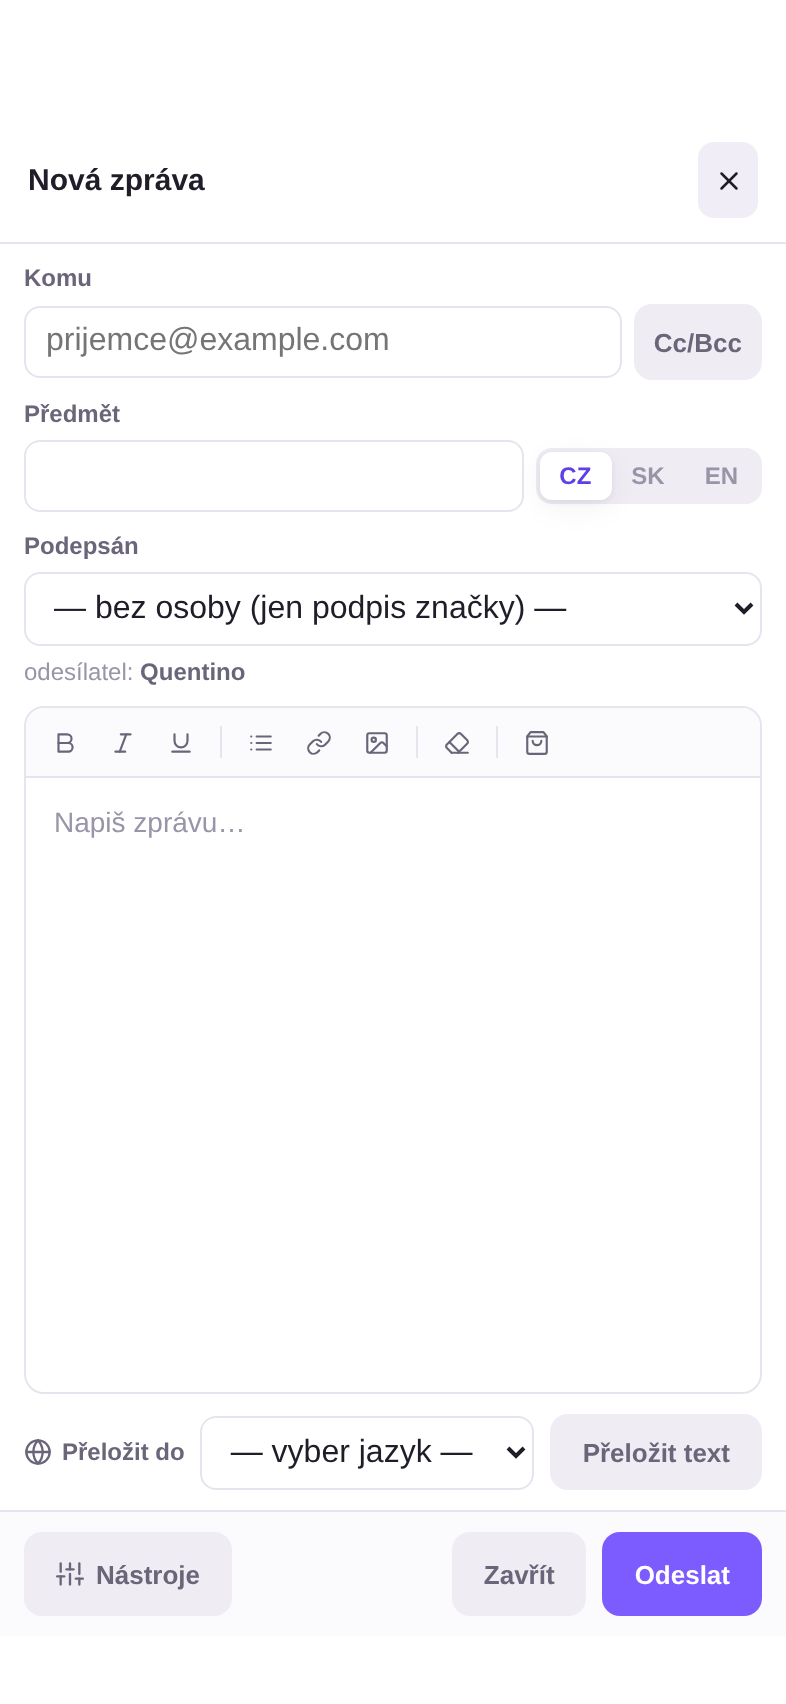
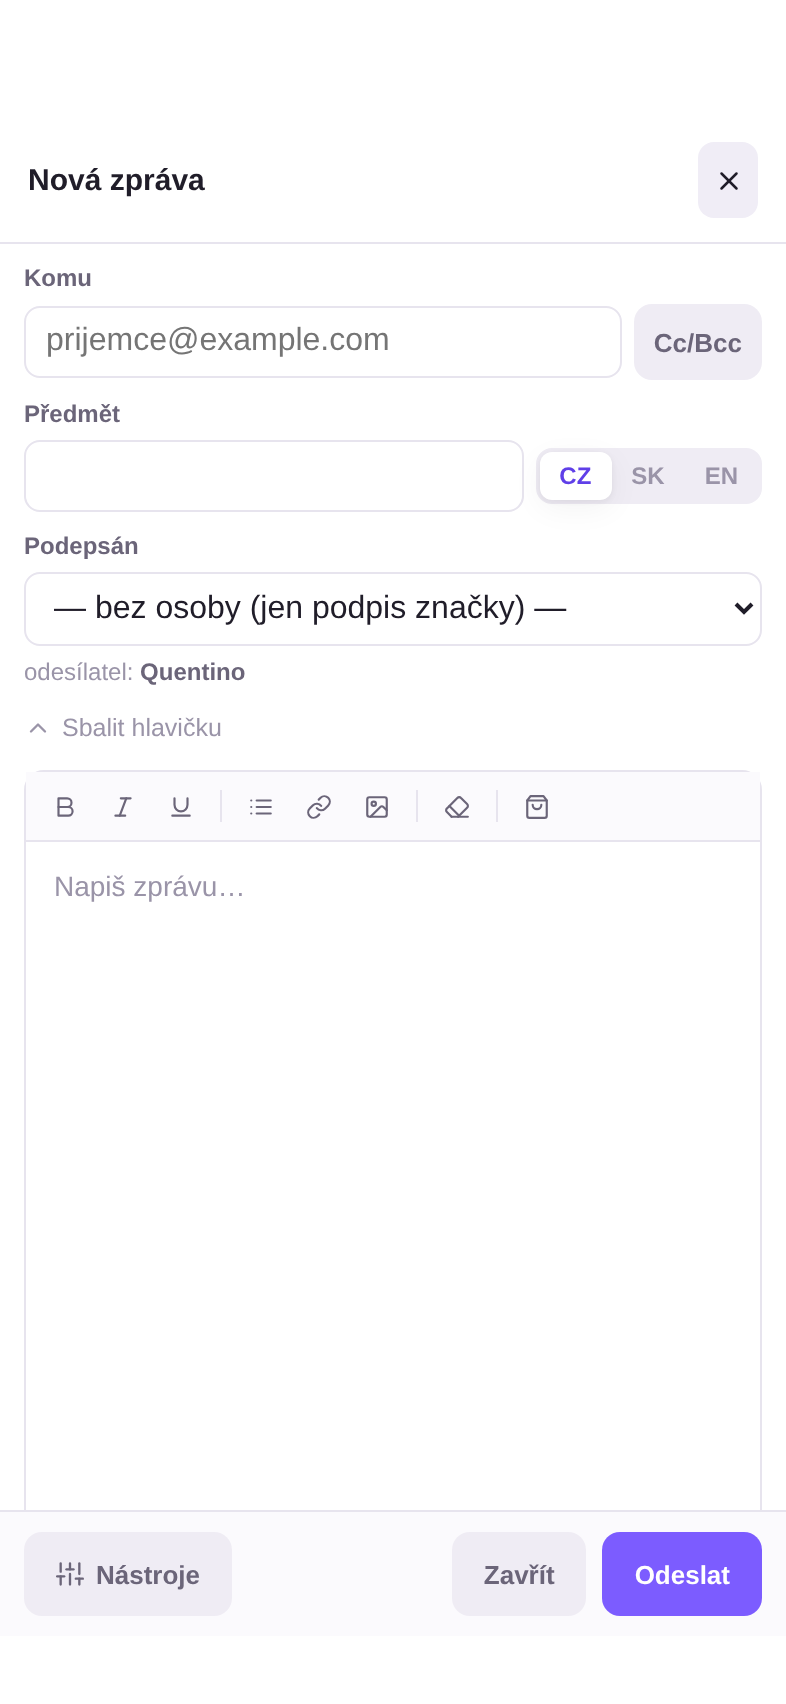
Psaní zprávy na telefonu: jedna rolující plocha
Editor mailu se na telefonu choval jako tři poschovávané obrazovky v jedné.

Rolovalo se ve dvou vrstvách naráz — stránka a v ní editor — a k tomu měl
vlastní posuvník ještě podpis, který navíc končil uprostřed. Prst nikdy
nevěděl, co zrovna posouvá. Teď roluje jen tělo okna a editor i podpis
rostou do výšky; lišta s formátováním zůstává přilepená nahoře, takže je
po ruce i uprostřed dlouhého textu.

Hlavička (komu, předmět, podepsán) zabírala třetinu obrazovky, i když
u odpovědi není co měnit — a jakmile se odrolovala, nebylo poznat, komu se
vlastně píše. U odpovědi je teď sbalená do jednoho řádku s příjemcem,
předmětem a jazykem; klepnutím se rozbalí. U nové zprávy zůstává otevřená,
tam není co jiného dělat.

Řádek „Přeložit do / Přeložit text" si držel místo pod textem pořád, i když
se skoro nikdy nepřekládá. Přesunul se mezi Nástroje, kde má vlastní panel
s výběrem jazyka.

Políčko pro zadání AI odpovědi mělo tlačítko vedle sebe a to přetékalo za
okraj — půlka nápisu „Vygenerovat odpověď" byla za obrazovkou. Teď je pod
polem přes celou šířku.

Náhledy na telefonu nově procházejí i odpověď s podpisem (bez ní by se nic
z toho nepoznalo) a kontrola „pod výřezem" přestala hlásit obsah, který jen
odroloval nad okraj rolující plochy — ověřeno, že skutečnou chybu pořád
najde.

Claude-Session: https://claude.ai/code/session_0118FUGUCarsrFjwUyJm4zFd

diff --git a/src/renderer/src/components/Composer.tsx b/src/renderer/src/components/Composer.tsx
@@ -204,6 +204,18 @@ export default function Composer(p: Props) {
   const phone = useIsPhone();
   // Šest nástrojů se do lišty na telefonu nevejde — schovají se za jedno tlačítko
   const [toolsOpen, setToolsOpen] = useState(false);
+  /** Panel s překladem — na telefonu je řádek s výběrem jazyka trvale v cestě */
+  const [translateOpen, setTranslateOpen] = useState(false);
+  /**
+   * Hlavička (komu, předmět, podepsán) rozbalená?
+   *
+   * U nové zprávy je potřeba hned — není co jiného vyplňovat. U odpovědi je
+   * všechno předvyplněné, takže na telefonu stačí jeden řádek se souhrnem
+   * a zbytek obrazovky patří textu. Klepnutím se rozbalí.
+   */
+  const [headOpen, setHeadOpen] = useState(p.init.mode === 'new');
+  /** Podpis na telefonu: ukazuje se na vyžádání, ne pořád (a hlavně celý) */
+  const [sigOpen, setSigOpen] = useState(false);
   const [sendAt, setSendAt] = useState('');
   const [translateOut, setTranslateOut] = useState(false);
   const [targetLang, setTargetLang] = useState('');
@@ -573,6 +585,20 @@ export default function Composer(p: Props) {
         </div>
 
         <div className="composer-body">
+          {/* Na telefonu zabírala hlavička třetinu obrazovky, i když u odpovědi
+              není co měnit. Sbalená drží to podstatné na očích — komu to jde
+              a v jakém jazyce — a text má konečně místo. */}
+          {phone && !headOpen && (
+            <button className="compose-summary" onClick={() => setHeadOpen(true)}>
+              <span className="compose-summary-lines">
+                <span><b>Komu</b> {to || 'nikomu zatím'}</span>
+                <span className="compose-summary-subject">{subject || 'bez předmětu'}</span>
+              </span>
+              <span className="compose-summary-lang">{mailLang.toUpperCase()}</span>
+              <Icon name="chevDown" size={15} />
+            </button>
+          )}
+          {(!phone || headOpen) && (<>
           {p.accounts.length > 1 && (
             <div className="compose-row">
               <label>Od</label>
@@ -622,6 +648,13 @@ export default function Composer(p: Props) {
             </div>
           )}
 
+          {phone && (
+            <button className="compose-collapse" onClick={() => setHeadOpen(false)}>
+              <Icon name="chevDown" size={14} /> Sbalit hlavičku
+            </button>
+          )}
+          </>)}
+
           {p.init.mode === 'reply' && (
             <div className="ai-note-box">
               <div className="hint"><Icon name="sparkles" size={13} /> Napiš jen stručně, co chceš sdělit — AI z toho vytvoří slušnou odpověď v duchu Quentina.</div>
@@ -647,13 +680,28 @@ export default function Composer(p: Props) {
             onInsertProduct={() => setBrowserOpen(true)}
           />
 
-          {sigPreview && !sigEdit && (
+          {/* Na telefonu se podpis dřív ukazoval pořád a ještě uříznutý v půlce
+              — vlastní rolování uvnitř rolující stránky. Teď je z něj jeden
+              řádek, a když se rozbalí, je vidět celý. */}
+          {sigPreview && !sigEdit && phone && (
+            <div className="sig-row">
+              <Icon name="pen" size={13} />
+              <span>Podpis se přidá při odeslání</span>
+              <button className="linkish" onClick={() => setSigOpen(v => !v)}>
+                {sigOpen ? 'Skrýt' : 'Zobrazit'}
+              </button>
+              <button className="linkish" onClick={() => setSigEdit(true)}>Upravit</button>
+            </div>
+          )}
+          {sigPreview && !sigEdit && (!phone || sigOpen) && (
             <div className="signature-preview" style={{ position: 'relative' }}>
               <div dangerouslySetInnerHTML={{ __html: sigPreview }} />
-              <button className="btn ghost" style={{ position: 'absolute', top: 4, right: 4, padding: '3px 9px', fontSize: 12 }}
-                onClick={() => setSigEdit(true)}>
-                <Icon name="pen" size={12} /> Upravit podpis
-              </button>
+              {!phone && (
+                <button className="btn ghost" style={{ position: 'absolute', top: 4, right: 4, padding: '3px 9px', fontSize: 12 }}
+                  onClick={() => setSigEdit(true)}>
+                  <Icon name="pen" size={12} /> Upravit podpis
+                </button>
+              )}
             </div>
           )}
           {sigEdit && (
@@ -693,6 +741,7 @@ export default function Composer(p: Props) {
             </div>
           )}
 
+          {!phone && (
           <div className="compose-row compose-translate" style={{ gap: 8 }}>
             <label style={{ width: 'auto', display: 'flex', alignItems: 'center', gap: 5 }}>
               <Icon name="globe" size={14} /> Přeložit do
@@ -706,6 +755,7 @@ export default function Composer(p: Props) {
               {busy === 'translate' ? <span className="spinner-inline" /> : 'Přeložit text'}
             </button>
           </div>
+          )}
 
           {foreignLang && (
             <label className="check-row">
@@ -773,10 +823,32 @@ export default function Composer(p: Props) {
                   onClick: () => setVoucherOpen(true) },
                 { icon: 'paperclip', label: 'Přidat přílohu',
                   onClick: () => { api.files.pickAttachments().then(ps => setAttachments(prev => [...prev, ...ps])); } },
+                { icon: 'globe', label: 'Přeložit text', hint: 'Přepíše rozepsanou zprávu do jiného jazyka',
+                  onClick: () => setTranslateOpen(true) },
                 { icon: 'clock', label: scheduleOpen ? 'Zrušit plán odeslání' : 'Naplánovat odeslání',
                   active: scheduleOpen, onClick: () => setScheduleOpen(v => !v) }
               ]}
             />
+          </Sheet>
+        )}
+
+        {/* Překlad měl na telefonu vlastní řádek pod textem a držel si místo
+            i ve chvílích, kdy se nepřekládá — což je skoro pořád */}
+        {translateOpen && (
+          <Sheet title="Přeložit text" onClose={() => setTranslateOpen(false)}>
+            <div className="field">
+              <label>Do jazyka</label>
+              <select value={targetLang} onChange={e => setTargetLang(e.target.value)}>
+                <option value="">— vyber jazyk —</option>
+                {LANGS.map(l => <option key={l.code} value={l.code}>{l.label}</option>)}
+              </select>
+              <span className="desc">Přepíše se rozepsaný text, podpis zůstane.</span>
+            </div>
+            <button className="btn primary" style={{ width: '100%' }}
+              disabled={!targetLang || busy === 'translate'}
+              onClick={async () => { await translateBody(); setTranslateOpen(false); }}>
+              {busy === 'translate' ? <span className="spinner-inline" /> : 'Přeložit'}
+            </button>
           </Sheet>
         )}
 

diff --git a/src/renderer/src/styles.css b/src/renderer/src/styles.css
@@ -4019,6 +4019,93 @@ html[data-form-factor="phone"] .compose-translate select { flex: 1; min-width: 1
 /* Výběr podepsané osoby a poznámka o odesílateli pod sebou */
 html[data-form-factor="phone"] .compose-row > select { width: 100%; }
 
+/* --------------------------------------------------------------------------
+   Psaní zprávy na telefonu: jedna rolující plocha
+
+   Dřív se rolovalo ve dvou vrstvách naráz — stránka a v ní editor, a k tomu
+   ještě podpis s vlastním posuvníkem. Prst nikdy nevěděl, co zrovna posouvá,
+   a hlavička s příjemcem zatím ujela z dohledu. Teď roluje jen `.composer-body`
+   a všechno ostatní roste do výšky.
+   -------------------------------------------------------------------------- */
+
+/* Editor roste s textem, neroluje sám v sobě */
+html[data-form-factor="phone"] .rt-wrap {
+  flex: 0 0 auto;
+  min-height: 0;
+  overflow: visible;
+}
+html[data-form-factor="phone"] .rt-editor {
+  overflow: visible;
+  /* Ať je do prázdné zprávy kam klepnout, i když ještě nic nemá */
+  min-height: 44vh;
+}
+/* Formátování zůstává po ruce i uprostřed dlouhého textu */
+html[data-form-factor="phone"] .rt-toolbar {
+  position: sticky;
+  top: 0;
+  z-index: 2;
+}
+
+/* Sbalená hlavička: komu, předmět a jazyk na jednom řádku */
+html[data-form-factor="phone"] .compose-summary {
+  display: flex;
+  align-items: center;
+  gap: 9px;
+  width: 100%;
+  min-height: var(--tap);
+  padding: 8px 11px;
+  border: 1px solid var(--border);
+  border-radius: 10px;
+  background: var(--bg);
+  text-align: left;
+  color: var(--text);
+}
+.compose-summary-lines { display: flex; flex-direction: column; gap: 1px; min-width: 0; flex: 1; }
+.compose-summary-lines > span {
+  overflow: hidden;
+  text-overflow: ellipsis;
+  white-space: nowrap;
+  font-size: 13px;
+}
+.compose-summary-lines b { font-weight: 600; color: var(--text-2); margin-right: 5px; font-size: 11.5px; }
+.compose-summary-subject { color: var(--text-2); }
+.compose-summary-lang {
+  flex-shrink: 0;
+  padding: 2px 7px;
+  border-radius: 6px;
+  background: var(--accent-soft);
+  color: var(--accent-dark);
+  font-size: 11px;
+  font-weight: 700;
+}
+html[data-form-factor="phone"] .compose-collapse svg { transform: rotate(180deg); }
+html[data-form-factor="phone"] .compose-collapse {
+  align-self: flex-start;
+  display: flex;
+  align-items: center;
+  gap: 5px;
+  padding: 4px 0;
+  font-size: 12.5px;
+  color: var(--text-3);
+}
+
+/* Pole pro zadání a tlačítko vedle sebe se na telefon nevejdou — tlačítko
+   přetékalo za okraj a půlka nápisu byla za obrazovkou */
+html[data-form-factor="phone"] .ai-note-row { flex-direction: column; }
+html[data-form-factor="phone"] .ai-note-row .btn { width: 100%; min-height: var(--tap); }
+html[data-form-factor="phone"] .ai-note-box .hint { font-weight: 500; }
+
+/* Podpis: jeden řádek, a když se rozbalí, je vidět celý */
+html[data-form-factor="phone"] .sig-row {
+  display: flex;
+  align-items: center;
+  gap: 7px;
+  font-size: 12.5px;
+  color: var(--text-3);
+}
+html[data-form-factor="phone"] .sig-row > span { flex: 1; min-width: 0; }
+html[data-form-factor="phone"] .signature-preview { max-height: none; overflow: visible; }
+
 /* Sociální sítě: nahoře zbytečná mezera, tlačítka na celou šířku */
 html[data-form-factor="phone"] .ig-main { padding: 12px 12px 16px; }
 html[data-form-factor="phone"] .ig-main > h2:first-child,

diff --git a/tools/stub.js b/tools/stub.js
@@ -10,7 +10,19 @@
   const accounts = [{
     id: 1, name: 'Quentino', email: 'info@quentino.cz', imapHost: 'imap.example.cz', imapPort: 993,
     imapSecure: true, smtpHost: 'smtp.example.cz', smtpPort: 465, smtpSecure: true,
-    username: 'info@quentino.cz', signatureHtml: '', sigConfig: null, logoPath: null, color: '#7c5cff'
+    username: 'info@quentino.cz', logoPath: null, color: '#7c5cff',
+    // Podpis je jeden z důvodů, proč se psaní na telefonu nevešlo na obrazovku
+    // — bez něj by se to na náhledech nepoznalo
+    signatureHtml: [
+      '<div style="font-size:13px;line-height:1.5;color:#444">',
+      '<b>Quentino</b><br>',
+      'Kravaty, motýlky a doplňky, které vydrží<br>',
+      '<a href="https://www.quentino.cz">www.quentino.cz</a> · ',
+      '<a href="mailto:info@quentino.cz">info@quentino.cz</a> · +420 607 043 067<br>',
+      'Quentino s.r.o., Bubenská 1477/1, 170 00 Praha 7, IČO 09876543',
+      '</div>'
+    ].join(''),
+    sigConfig: null
   }];
   const folders = [
     { path: 'INBOX', name: 'Doručená pošta', specialUse: null, unseen: 3, total: 128 },
